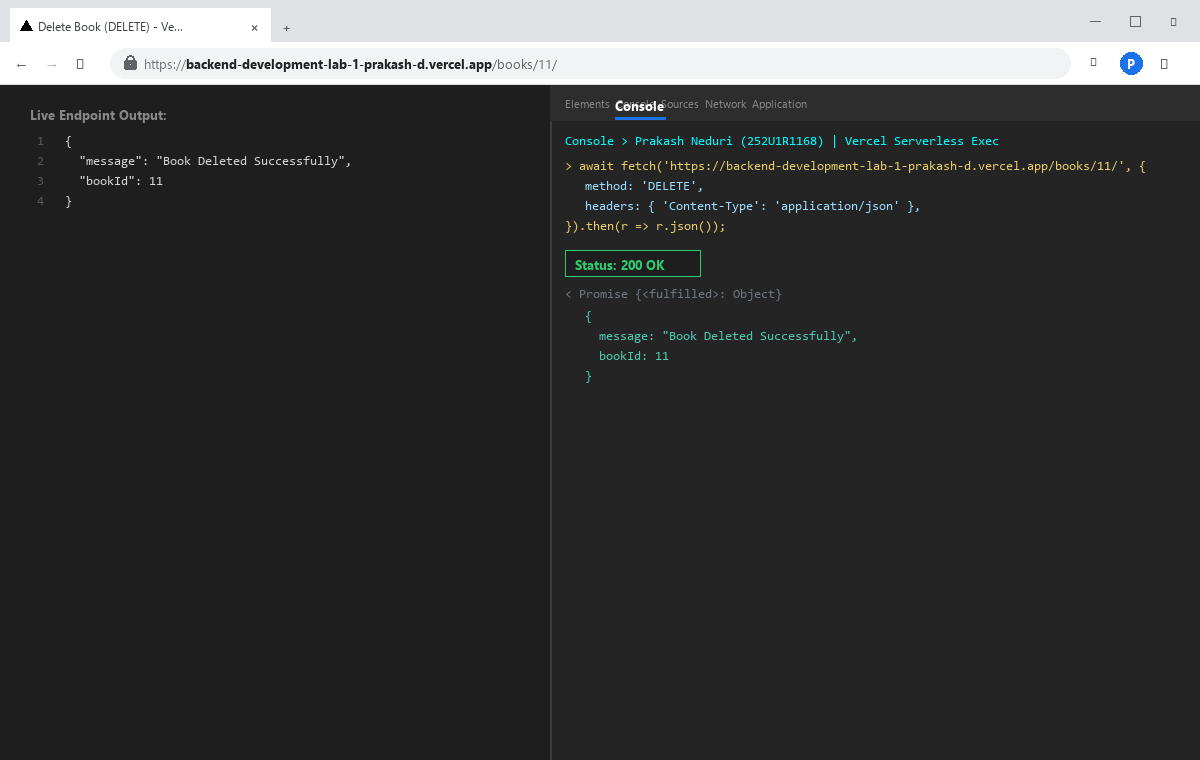
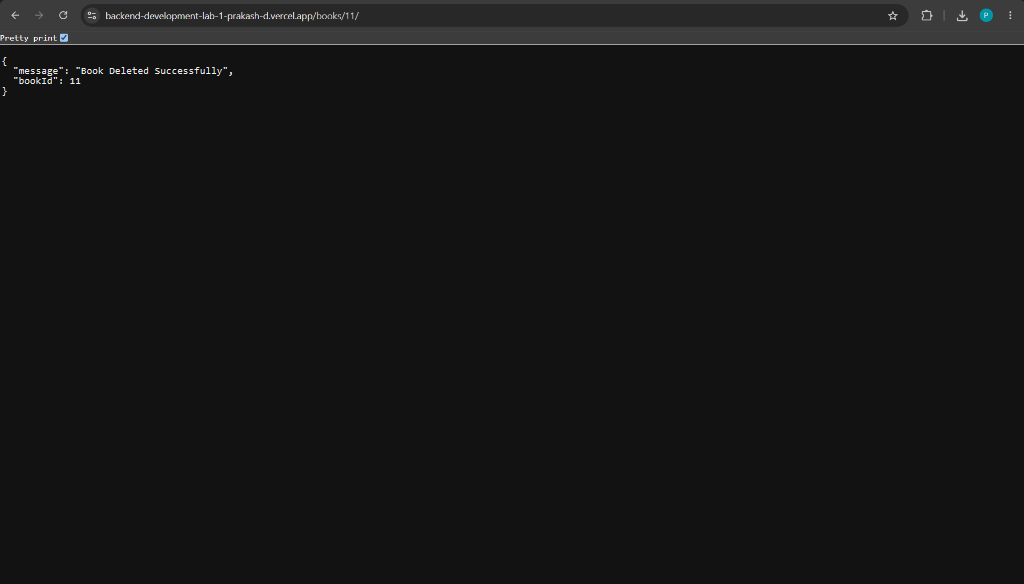
docs(lab-02): update all screenshots to matching 1024px dark theme browser format

Changed region(s): [[0.0, 0.0, 1.0, 0.3082], [0.5, 0.4315, 0.7188, 0.4932], [0.4688, 0.339, 0.6562, 0.4007]]

diff --git a/lab-02/README.md b/lab-02/README.md
@@ -236,7 +236,7 @@ GET /books/11/ -> Status: 404 (Not Found)
 ---
 
 ### 6. GET /books/:bookId/ (404 Error Handling)
-- **Endpoint:** `GET https://backend-development-lab-1-prakash-d.vercel.app/books/999/` *(or `http://localhost:3000/books/999/`)*
+- **Endpoint:** `GET https://backend-development-lab-1-prakash-d.vercel.app/books/100/` *(or `http://localhost:3000/books/100/`)*
 - **Status Code:** `404 Not Found`
 - **Description:** Returns an informative JSON error message when requesting an ID that does not exist.
 
